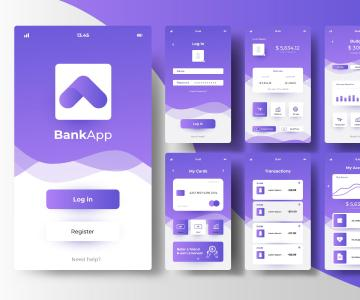
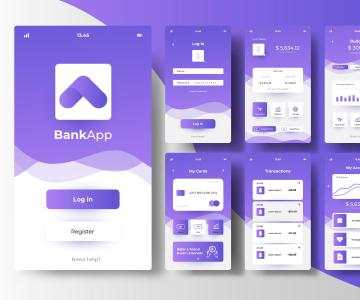
UPDATED image definitions for retina

diff --git a/portfolio.html b/portfolio.html
@@ -93,6 +93,7 @@
               <a href="" class="portfolio-item-link link">
                 <div class="portfolio-item-thumb">
                   <img
+                    srcset="./images/portfolio/banking-interface.jpg 1x, ./images/portfolio/banking-interface@2x.jpg 2x"
                     src="./images/portfolio/banking-interface.jpg"
                     alt="Banking App Interface Concept"
                     width="360"
@@ -113,6 +114,7 @@
               <a href="" class="portfolio-item-link link">
                 <div class="portfolio-item-thumb">
                   <img
+                    srcset="./images/portfolio/cashless-payment.jpg 1x, ./images/portfolio/cashless-payment@2x.jpg 2x"
                     src="./images/portfolio/cashless-payment.jpg"
                     alt="Cashless Payment"
                     width="360"
@@ -133,6 +135,7 @@
               <a href="" class="portfolio-item-link link">
                 <div class="portfolio-item-thumb">
                   <img
+                    srcset="./images/portfolio/meditation-app.jpg 1x, ./images/portfolio/meditation-app@2x.jpg 2x"
                     src="./images/portfolio/meditation-app.jpg"
                     alt="Meditation App"
                     width="360"
@@ -153,6 +156,7 @@
               <a href="" class="portfolio-item-link link">
                 <div class="portfolio-item-thumb">
                   <img
+                    srcset="./images/portfolio/taxi-service.jpg 1x, ./images/portfolio/taxi-service@2x.jpg 2x"
                     src="./images/portfolio/taxi-service.jpg"
                     alt="Taxi Service"
                     width="360"
@@ -173,6 +177,7 @@
               <a href="" class="portfolio-item-link link">
                 <div class="portfolio-item-thumb">
                   <img
+                    srcset="./images/portfolio/screen-illustrations.jpg 1x, ./images/portfolio/screen-illustrations@2x.jpg 2x"
                     src="./images/portfolio/screen-illustrations.jpg"
                     alt="Screen Illustrations"
                     width="360"
@@ -193,6 +198,7 @@
               <a href="" class="portfolio-item-link link">
                 <div class="portfolio-item-thumb">
                   <img
+                    srcset="./images/portfolio/online-courses.jpg 1x, ./images/portfolio/online-courses@2x.jpg 2x"
                     src="./images/portfolio/online-courses.jpg"
                     alt="Online Courses"
                     width="360"
@@ -213,6 +219,7 @@
               <a href="" class="portfolio-item-link link">
                 <div class="portfolio-item-thumb">
                   <img
+                    srcset="./images/portfolio/instagram-stories.jpg 1x, ./images/portfolio/instagram-stories@2x.jpg 2x"
                     src="./images/portfolio/instagram-stories.jpg"
                     alt="Instagram Stories Concept"
                     width="360"
@@ -233,6 +240,7 @@
               <a href="" class="portfolio-item-link link">
                 <div class="portfolio-item-thumb">
                   <img
+                    srcset="./images/portfolio/organic-food.jpg 1x, ./images/portfolio/organic-food@2x.jpg 2x"
                     src="./images/portfolio/organic-food.jpg"
                     alt="Organic Food"
                     width="360"
@@ -253,6 +261,7 @@
               <a href="" class="portfolio-item-link link">
                 <div class="portfolio-item-thumb">
                   <img
+                    srcset="./images/portfolio/fresh-coffee.jpg 1x, ./images/portfolio/fresh-coffee@2x.jpg 2x"
                     src="./images/portfolio/fresh-coffee.jpg"
                     alt="Fresh Coffee"
                     width="360"

diff --git a/index.html b/index.html
@@ -126,6 +126,7 @@
         <ul class="offering-list list">
           <li class="offering-item">
             <img
+              srcset="./images/what-we-do/computer-screen.jpg 1x, ./images/what-we-do/computer-screen@2x.jpg 2x"
               src="./images/what-we-do/computer-screen.jpg"
               alt="Computer screen with program open"
               width="360"
@@ -135,6 +136,7 @@
           </li>
           <li class="offering-item">
             <img
+              srcset="./images/what-we-do/phone-screens.jpg 1x, ./images/what-we-do/phone-screens@2x.jpg 2x"
               src="./images/what-we-do/phone-screens.jpg"
               alt="Phone with different interface screens"
               width="360"
@@ -144,6 +146,7 @@
           </li>
           <li class="offering-item">
             <img
+              srcset="./images/what-we-do/phone-in-hand.jpg 1x, ./images/what-we-do/phone-in-hand@2x.jpg 2x"
               src="./images/what-we-do/phone-in-hand.jpg"
               alt="Phone in hand in front of computer"
               width="360"
@@ -161,6 +164,7 @@
         <ul class="team-list list">
           <li class="team-member">
             <img
+              srcset="./images/team/mark-guerrero.jpg 1x, ./images/team/mark-guerrero@2x.jpg 2x"
               src="./images/team/mark-guerrero.jpg"
               alt="Mark Guerrero photo"
               width="264"
@@ -204,6 +208,7 @@
           </li>
           <li class="team-member">
             <img
+              srcset="./images/team/tom-ford.jpg 1x, ./images/team/tom-ford@2x.jpg 2x"
               src="./images/team/tom-ford.jpg"
               alt="Tom Ford photo"
               width="264"
@@ -247,6 +252,7 @@
           </li>
           <li class="team-member">
             <img
+              srcset="./images/team/camila-garcia.jpg 1x, ./images/team/camila-garcia@2x.jpg 2x"
               src="./images/team/camila-garcia.jpg"
               alt="Camila Garcia photo"
               width="264"
@@ -290,6 +296,7 @@
           </li>
           <li class="team-member">
             <img
+              srcset="./images/team/daniel-wilson.jpg 1x, ./images/team/daniel-wilson@2x.jpg 2x"
               src="./images/team/daniel-wilson.jpg"
               alt="Daniel Wilson photo"
               width="264"

diff --git a/css/styles.css b/css/styles.css
@@ -59,6 +59,8 @@ h1, h2, h3, h4, h5, h6, p, ul {
 
 img {
   display: block;
+  min-width: 100%;
+  height: auto;
 }
 
 .visually-hidden {
@@ -469,6 +471,11 @@ button {
   margin: 0 auto;
   padding: 112px 0;
 }
+
+@media (min-device-pixel-ratio: 2), (min-resolution: 921dpi), (min-resolution: 2dppx) {
+  .hero {
+    background-image: linear-gradient(rgba(46, 47, 66, 0.7), rgba(46, 47, 66, 0.7)), url(../images/people-office@2x.jpg);
+  }
 
 @media only screen and (min-width: 768px) {
   .hero {
@@ -1073,8 +1080,8 @@ Subscribe form
 @media only screen and (max-width: 767px) {
   .footer-form-input-label {
     display: flex;
+    justify-content: center;
 
-    margin: 0 auto;
     width: 100%;
   }
 }
@@ -1481,6 +1488,15 @@ input[type='checkbox']:checked ~ .modal-form-agreement-text > .modal-form-checkb
   margin-bottom: 72px;
 }
 
+@media only screen and (max-width: 767px) {
+  .portfolio-filters {
+    flex-wrap: wrap;
+    gap: 16px 24px;
+
+    justify-content: flex-start;
+  }
+}
+
 .filters-button {
   display: inline-flex;
   padding: 12px 24px;
@@ -1509,14 +1525,48 @@ input[type='checkbox']:checked ~ .modal-form-agreement-text > .modal-form-checkb
 .portfolio-list {
   display: flex;
   flex-wrap: wrap;
-  gap: 24px;
-  row-gap: 48px;
+
+  align-items: center;
+  justify-content: center;
+
+  width: 100%;
+}
+
+@media only screen and (min-width: 768px) {
+  .portfolio-list {
+    flex-direction: row;
+    flex-wrap: wrap;
+    gap: 72px 24px;
+
+    justify-content: flex-start;
+  }
 }
 
 .portfolio-item {
-  flex-basis: calc((100% - 24px * 2) / 3);
+  flex-direction: column;
+
+  gap: 48px;
 
   transitiion: color var(--transition-standard), background-color var(--transition-standard), border-color var(--transition-standard), box-shadow var(--transition-standard);
+}
+
+@media only screen and (min-width: 768px){
+  .portfolio-item {
+    flex-direction: row;
+
+    gap: 72px 24px;
+
+    /* flex-basis: calc((100% - 24px) / 2); */
+    width: 356px;
+  }
+}
+
+@media only screen and (min-width: 1158px){
+  .portfolio-item {
+    gap: 48px 24px;
+
+    flex-basis: calc((100% - 24px * 2) / 3);
+  }
 }
 
 .portfolio-item-link {
